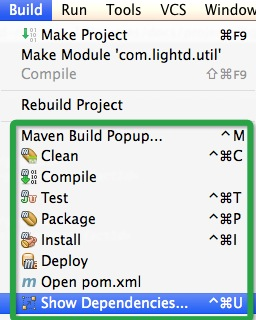
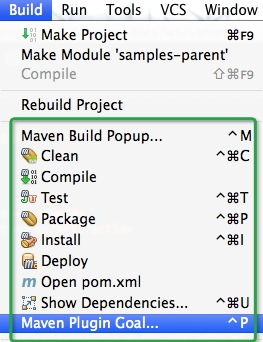
Prepare for 0.2.5 release

diff --git a/README.md b/README.md
@@ -20,7 +20,7 @@ IntelliJ 13 及更高版本
 安装
 ----
 * 插件仓库安装：菜单中选择 Preferences/Plugins/Browser repositories, 查找 Maven Runner 并安装
-* 磁盘安装：[插件下载地址](http://plugins.jetbrains.com/plugin/7409)
+* 磁盘安装下载地址：[JetBrains Plugin Repository](http://plugins.jetbrains.com/plugin/7409)
 
 
 功能
@@ -32,6 +32,7 @@ IntelliJ 13 及更高版本
 * 允许配置 fork 模式(配置均属 application level, Preferences/Maven/Importing)
 * 为 maven 构建添加 Quick switch popup menu(shortcut: ^M)
 * maven 构建菜单添加到 Build main menu 中(shortcut: ^⌘+ C/P/T/I)
+* 通过 Quick switch popup menu 快速执行 plugin goals(shortcut: ^P)
 * 支持快速查看 module 依赖(在 pom.xml 或 maven 项目列表上显示所有依赖，否则只显示模块依赖。 shortcut: ^⌘U)
 * 通过 maven 坐标快速打开 POM 文件(shortcut: ^⌘M)
 
@@ -73,6 +74,9 @@ Screen Snapshot
 * Quick switch popup menu
 
     ![Quick switch popup menu](https://raw.github.com/ShlXue/MvnRunner/master/docs/images/quick_switch_popup_menu.png)
+* Quick run plugin goals
+
+    ![Quick run plugin goals](https://raw.github.com/ShlXue/MvnRunner/master/docs/images/quick_run_plugin_goals.png)
 * Build menu
 
     ![Build menu](https://raw.github.com/ShlXue/MvnRunner/master/docs/images/maven_build_menu.png)
